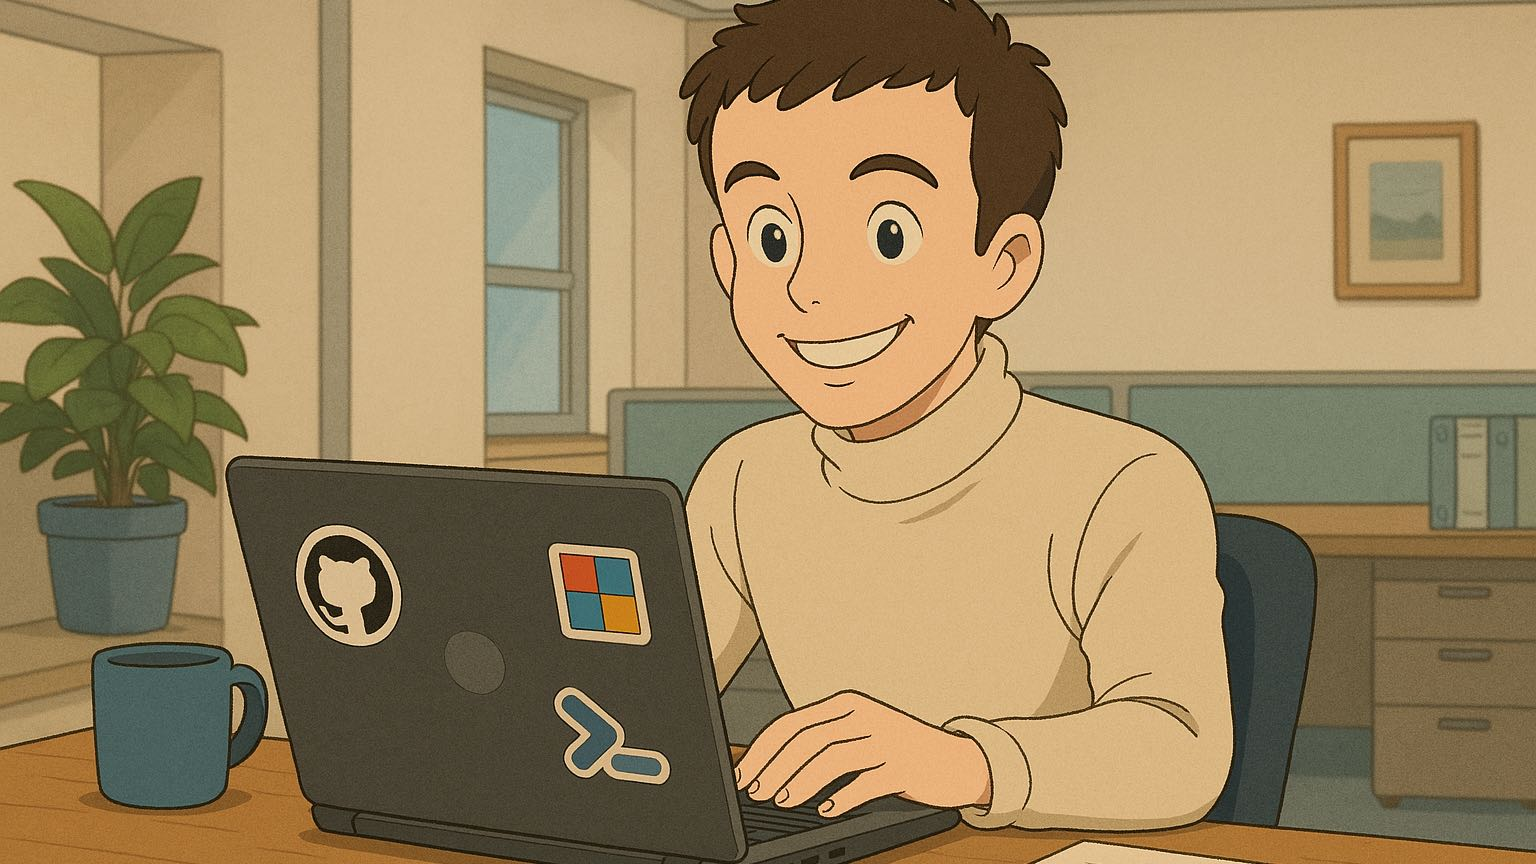
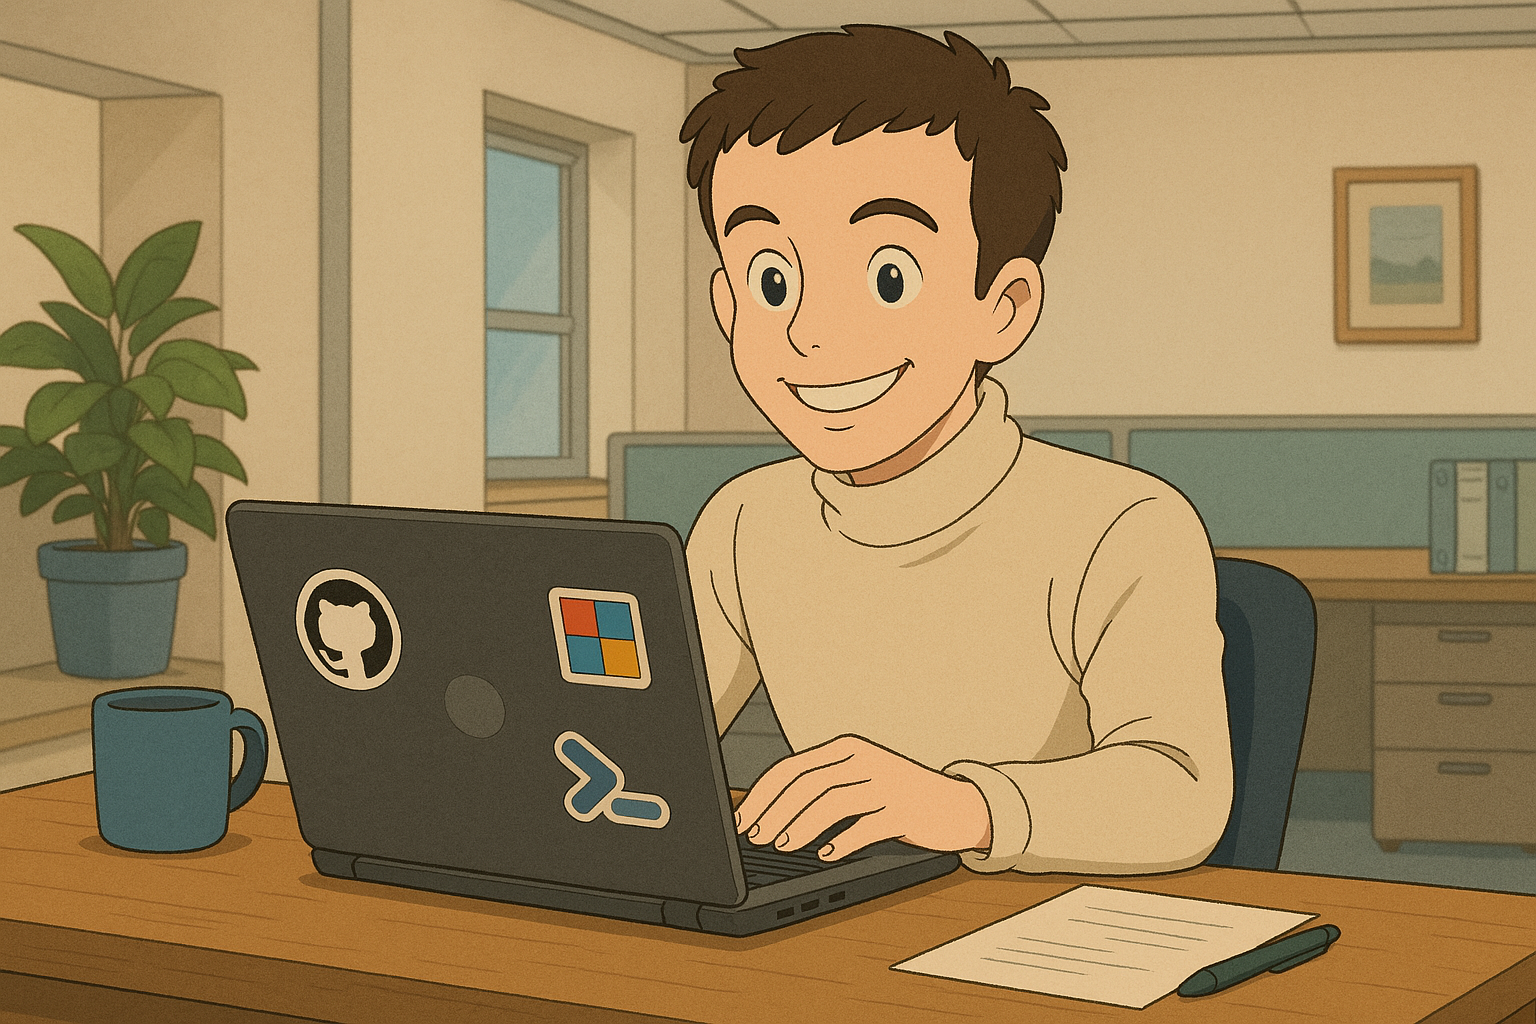
New Blog Post on 2025-03-29 20:18:26

diff --git a/about/index.html b/about/index.html
@@ -63,9 +63,9 @@ Professionally, I work as a Project Manager for a Managed Service Provider (MSP)
 Professionally, I work as a Project Manager for a Managed Service Provider (MSP), where I combine my love for tech with strategic planning and team coordination to deliver efficient IT solutions.">
   <meta property="og:locale" content="en-us">
   <meta property="og:type" content="article">
-    <meta property="og:image" content="https://blog.innocloud.io/images/about_me.png">
+    <meta property="og:image" content="https://blog.innocloud.io/images/about_me.jpg">
 <meta name="twitter:card" content="summary_large_image">
-<meta name="twitter:image" content="https://blog.innocloud.io/images/about_me.png">
+<meta name="twitter:image" content="https://blog.innocloud.io/images/about_me.jpg">
 <meta name="twitter:title" content="About me">
 <meta name="twitter:description" content="Hi there! &#x1f44b; I’m Sam van den Biggelaar, a 28-year-old tech enthusiast and project manager from the Netherlands. Ever since I was a kid, I’ve been fascinated by computers and technology, and that passion has stayed with me throughout my life. &#x1f468;&zwj;&#x1f4bb;
 Professionally, I work as a Project Manager for a Managed Service Provider (MSP), where I combine my love for tech with strategic planning and team coordination to deliver efficient IT solutions.">
@@ -98,7 +98,7 @@ Professionally, I work as a Project Manager for a Managed Service Provider (MSP)
   "articleBody": "Hi there! 👋 I’m Sam van den Biggelaar, a 28-year-old tech enthusiast and project manager from the Netherlands. Ever since I was a kid, I’ve been fascinated by computers and technology, and that passion has stayed with me throughout my life. 👨💻\nProfessionally, I work as a Project Manager for a Managed Service Provider (MSP), where I combine my love for tech with strategic planning and team coordination to deliver efficient IT solutions.\nOutside of work, I’m passionate about ⚽, 🌍, and, unsurprisingly, all things around 💻 . Whether it’s staying active, exploring new places, or discovering the latest innovations, I’m always eager to learn and grow.\nLet’s connect and share ideas about technology! 🚀⭐\nLinkedIn GitHub ",
   "wordCount" : "117",
   "inLanguage": "en",
-  "image":"https://blog.innocloud.io/images/about_me.png","datePublished": "0001-01-01T00:00:00Z",
+  "image":"https://blog.innocloud.io/images/about_me.jpg","datePublished": "0001-01-01T00:00:00Z",
   "dateModified": "0001-01-01T00:00:00Z",
   "author":{
     "@type": "Person",
@@ -192,7 +192,7 @@ Professionally, I work as a Project Manager for a Managed Service Provider (MSP)
 
 </div>
   </header> 
-<figure class="entry-cover"><img loading="eager" src="https://blog.innocloud.io/images/about_me.png" alt="">
+<figure class="entry-cover"><img loading="eager" src="https://blog.innocloud.io/images/about_me.jpg" alt="">
         
 </figure>
 
